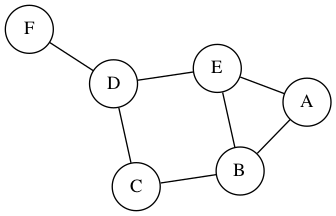
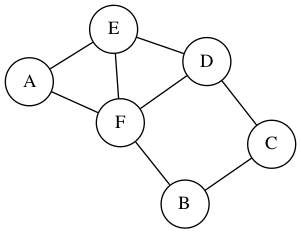
v1.0.0 release

diff --git a/rosmontis/rosmontis.py b/rosmontis/rosmontis.py
@@ -26,8 +26,9 @@ def renderGraphDict(graph: dict,
     for e in graph.items():
         g.append(list(e))
 
-    return renderGraphList(graph=g, graphName=graphName, weighted=weighted, 
-                    directed=directed, engine=engine, outputFormat=outputFormat)
+    return renderGraphList(graph=g, graphName=graphName, 
+                                weighted=weighted, directed=directed, 
+                                engine=engine, outputFormat=outputFormat)
 
 def renderGraphList(graph: list,
                     graphName: str="default",
@@ -81,7 +82,7 @@ def renderGraphList(graph: list,
         for n, e in graph:
             for edge in e:
                 g.edge(tail_name=str(n), head_name=str(edge[0]), 
-                       label=str(edge[1]))
+                    label=str(edge[1]))
     else:
         for n, e in graph:
             nodes.add(str(n))
@@ -123,12 +124,12 @@ def renderGraphMatrix(graph: list[list[Any]],
     Example:
         >>> import rosmontis
         >>> g = [[None, "A", "B", "C", "D", "E", "F"],
-                 ["A",   0,   1,   0,   0,   1,   0 ],
-                 ["B",   1,   0,   1,   0,   1,   0 ],
-                 ["C",   0,   1,   0,   1,   0,   0 ],
-                 ["D",   0,   0,   1,   0,   1,   1 ],
-                 ["E",   1,   1,   0,   1,   0,   0 ],
-                 ["F",   0,   0,   0,   1,   0,   0 ]]
+                ["A",   0,   1,   0,   0,   1,   0 ],
+                ["B",   1,   0,   1,   0,   1,   0 ],
+                ["C",   0,   1,   0,   1,   0,   0 ],
+                ["D",   0,   0,   1,   0,   1,   1 ],
+                ["E",   1,   1,   0,   1,   0,   0 ],
+                ["F",   0,   0,   0,   1,   0,   0 ]]
         >>> renderGraphMatrix(g, weighted="False", directed="False")
     """
 
@@ -147,10 +148,10 @@ def renderGraphMatrix(graph: list[list[Any]],
             if (graph[i][j] != 0):
                 if (weighted):
                     g.edge(tail_name=str(graph[i][0]), 
-                           head_name=str(graph[0][j]), 
-                           label=str(graph[i][j]))
+                        head_name=str(graph[0][j]), 
+                        label=str(graph[i][j]))
                 else:
                     g.edge(tail_name=str(graph[i][0]), 
-                           head_name=str(graph[0][j]))
+                        head_name=str(graph[0][j]))
 
     return g.render(graphName, format=outputFormat, engine=engine)

diff --git a/examples/adjacency-matrix.py b/examples/adjacency-matrix.py
@@ -1,25 +1,20 @@
-from collections import defaultdict
 from rosmontis import renderGraphMatrix
 
-# g[i] = [node1, node2], meaning there is a undirected path
-# from node1 to node2
-g1 = [["A", "B"], ["A", "E"], ["B", "E"], 
-      ["B", "C"], ["C", "D"], ["D", "E"], ["D", "F"]]
-
-g2 = [["A", "B", 2], ["A", "E", 0.5], ["B", "E", 0.2], 
-      ["B", "C", 3], ["C", "D", 7], ["D", "E", 0.15], ["D", "F", 1.6]]
+# 1 indicates there is an edge, 0 indicates no connection
+# One can change the 1 into other numbers and use it to represent the weight of
+# the edges
 
 # ------------------------------------------------------------------------------
 # Unweighted, Undirect
 # Create a graph using adjacency matrix as representation
 adjMatrix1 = [
     [None, "A", "B", "C", "D", "E", "F"],
-    ["A",   0,   1,   0,   0,   1,   0 ],
-    ["B",   1,   0,   1,   0,   1,   0 ],
+    ["A",   0,   0,   0,   0,   1,   1 ],
+    ["B",   0,   0,   1,   0,   0,   1 ],
     ["C",   0,   1,   0,   1,   0,   0 ],
     ["D",   0,   0,   1,   0,   1,   1 ],
-    ["E",   1,   1,   0,   1,   0,   0 ],
-    ["F",   0,   0,   0,   1,   0,   0 ]
+    ["E",   1,   0,   0,   1,   0,   1 ],
+    ["F",   1,   1,   0,   1,   1,   0 ]
 ]
 
 # output a png image representing the graph in the same
@@ -68,5 +63,6 @@ adjMatrix4 = [
     ["E",   0,     0,     0,     0,     0,     0   ],
     ["F",   0,     0,     0,     0,     0,     0   ]
 ]
+
 renderGraphMatrix(graph=adjMatrix4, graphName="weighted-direct",
                           weighted=True, directed=True)

diff --git a/setup.py b/setup.py
@@ -1,8 +1,9 @@
+import pathlib
 from setuptools import setup, find_packages
 
-VERSION = "0.0.1"
+VERSION = "1.0.0"
 DESCRIPTION = "Create graph images with help of graphviz module"
-LONG_DESCRIPTION = "This module simplified the steps of creating a graph, where it adds the nodes and edges automatically from the inputed data structure to graphviz, creating the graph in one function call."
+LONG_DESCRIPTION = pathlib.Path('README.md').read_text(encoding='utf-8')
 
 setup(
     name = "rosmontis", 
@@ -12,9 +13,12 @@ setup(
     license = "MIT",
     description = DESCRIPTION,
     long_description = LONG_DESCRIPTION,
+    long_description_content_type = "text/markdown",
+    url = "https://github.com/apo11o-m/rosmontis",
+
+    python_requires='>=3',
     packages=find_packages(),
     install_requires=["graphviz"],
-    python_requires='>=3',
     keywords = ["graph", "visualization", "dot", "render"],
     classifiers = [
         "Development Status :: 3 - Alpha",

diff --git a/rosmontis/__init__.py b/rosmontis/__init__.py
@@ -4,6 +4,6 @@ Create graph images with help of the graphviz module.
 This module simplified the steps of creating a graph, where it adds the nodes and edges automatically from the inputed data structure to graphviz, creating the graph in one function call.
 """
 
-from rosmontis import renderGraphDict
-from rosmontis import renderGraphList
-from rosmontis import renderGraphMatrix
+from .rosmontis import renderGraphDict
+from .rosmontis import renderGraphList
+from .rosmontis import renderGraphMatrix

diff --git a/README.md b/README.md
@@ -1,6 +1,6 @@
 # Rosmontis
 
-Rosmontis is a lightweight library that outputs a graph image using [graphviz](https://github.com/xflr6/graphviz) based on the adjacency list, dictionary, or matrix. This library skips the process of adding the nodes manually and only need to pass the variable representing the graph into the functions.
+Rosmontis is a lightweight library that outputs a graph image using [graphviz](https://github.com/xflr6/graphviz) based on the adjacency list, dictionary, or matrix. This module simplified the steps of creating a graph, where it adds the nodes and edges automatically from the input data to graphviz, creating the graph in one function call.
 
 ## Installation
 
@@ -17,7 +17,7 @@ $ pip install --upgrade rosmontis
 ### Unweighted Undirected Graph in Adjacency List
 
 ```python
-from rosmontis import renderGraphList
+import rosmontis
 
 g = [['A', ['B', 'E']],   # node A is connected to node B and node E
      ['B', ['E', 'C']],   # node B is connected to node E and node C
@@ -26,14 +26,14 @@ g = [['A', ['B', 'E']],   # node A is connected to node B and node E
 
 # output a png image representing the graph in the same
 # directory of this file.
-renderGraphList(graph=g, graphName="example1", weighted=False, directed=False)
+rosmontis.renderGraphList(graph=g, graphName="example1", weighted=False, directed=False)
 ```
 <img src="img/example1.png">
 
 ### Weighted Undirected Graph in Adjacency Dictionary
 
 ```python
-from rosmontis import renderGraphDict
+import rosmontis
 
 # node A is connected to node B with weight of 2, and node E with weight of 0.5
 # node B is connected to node E with weight of 0.2, and node C with weight of 3
@@ -43,7 +43,7 @@ g = {'A': [['B', 2], ['E', 0.5]],
      'C': [['D', 7]], 
      'D': [['E', 0.15], ['F', 1.6]]}
 
-renderGraphDict(graph=g, graphName="example2", weighted=True, directed=False)
+rosmontis.renderGraphDict(graph=g, graphName="example2", weighted=True, directed=False)
 ```
 
 <img src="img/example2.png">
@@ -51,41 +51,40 @@ renderGraphDict(graph=g, graphName="example2", weighted=True, directed=False)
 ### Unweighted Undirected Graph in Adjacency Matrix
 
 ```python
-from rosmontis import renderGraphMatrix
+import rosmontis
 
-# Note the zeroth column and row are the headers/labels of each node. The actual 
-# weight starts from row 1 column 1
+# Note column 0 and row 0 are the headers/labels of each node. The actual weight
+# starts from row 1 column 1
 # 1 indicates there is an edge, 0 indicates no connection
 g = [[None, "A", "B", "C", "D", "E", "F"],
-     ["A",   0,   1,   0,   0,   1,   0 ],
-     ["B",   1,   0,   1,   0,   1,   0 ],
+     ["A",   0,   0,   0,   0,   1,   1 ],
+     ["B",   0,   0,   1,   0,   0,   1 ],
      ["C",   0,   1,   0,   1,   0,   0 ],
      ["D",   0,   0,   1,   0,   1,   1 ],
-     ["E",   1,   1,   0,   1,   0,   0 ],
-     ["F",   0,   0,   0,   1,   0,   0 ]]
+     ["E",   1,   0,   0,   1,   0,   1 ],
+     ["F",   1,   1,   0,   1,   1,   0 ]]
 
-renderGraphMatrix(graph=g, graphName="example3", weighted=False, directed=False)
+rosmontis.renderGraphMatrix(graph=g, graphName="example3", weighted=False, directed=False)
 ```
 <img src="img/example3.png">
 
 ### Weighted Directed Graph in Adjacency Matrix
 
 ```python
-from rosmontis import renderGraphMatrix
+import rosmontis
 
 # Change the numbers from 1 to the weight value. Numbers other than 0 represents
 # a connection, vice versa.
 g = [[None, "A",   "B",   "C",   "D",   "E",   "F"  ],
-     ["A",   0,     2,     0,     0,     0.5,   0   ],
-     ["B",   0,     0,     3,     0,     0.2,   0   ],
-     ["C",   0,     0,     0,     7,     0,     0   ],
-     ["D",   0,     0,     0,     0,     0.15,  1.6 ],
-     ["E",   0,     0,     0,     0,     0,     0   ],
+     ["A",   0,     2,     0,     0,     0,     3   ],
+     ["B",   0,     0,     0,     0,     0.2,   0   ],
+     ["C",   0,     0,     0,     7.5,   0,     13  ],
+     ["D",   0,     0,     0,     0,     0,     1.6 ],
+     ["E",   0,     0,     0,     0,     0,     -4  ],
      ["F",   0,     0,     0,     0,     0,     0   ]]
 
-renderGraphMatrix(graph=g, graphName="example4", weighted=True, directed=True)
+rosmontis.renderGraphMatrix(graph=g, graphName="example4", weighted=True, directed=True)
 ```
 <img src="img/example4.png">
 
 See more examples in the `examples/` folder.
-
